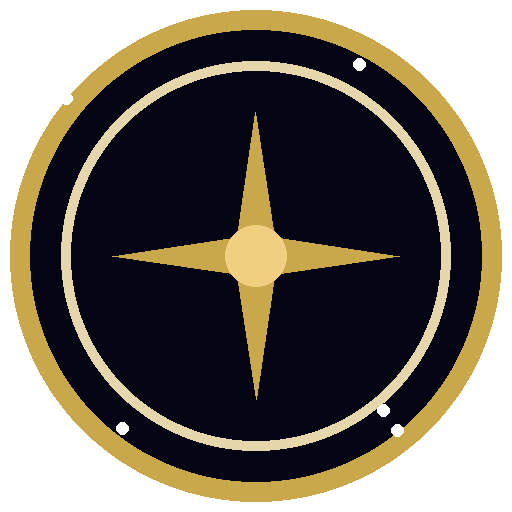
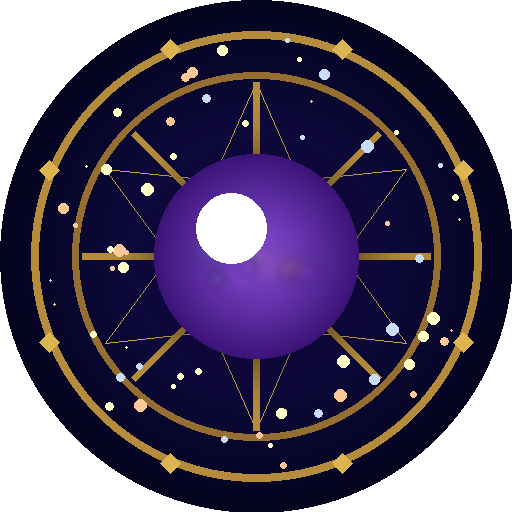
Add files via upload

diff --git a/index.html b/index.html
@@ -3,7 +3,7 @@
 <head>
 <meta charset="UTF-8">
 <meta name="viewport" content="width=device-width, initial-scale=1.0">
-<title>宿命の鏡 — 究極占術</title>
+<title>スターダストフォーチュン</title>
 <link href="https://fonts.googleapis.com/css2?family=Cormorant+Garamond:ital,wght@0,300;0,400;1,300;1,400&family=Noto+Serif+JP:wght@200;300;400&family=Noto+Serif+SC:wght@200;300&family=Noto+Serif+KR:wght@200;300&display=swap" rel="stylesheet">
 <link rel="manifest" href="/manifest.json">
 <meta name="theme-color" content="#040408">
@@ -112,6 +112,13 @@
   input:focus, select:focus, textarea:focus { border-color:rgba(201,168,76,0.5); background:rgba(201,168,76,0.04); box-shadow:0 0 20px rgba(201,168,76,0.08); }
 
   .fortune-types { display:flex; flex-wrap:wrap; gap:10px; margin-bottom:28px; }
+  .provider-btn {
+    padding:8px 18px; background:transparent;
+    border:1px solid rgba(201,168,76,0.2); border-radius:1px; color:var(--text-dim);
+    font-family:inherit; font-size:0.8rem; cursor:pointer; transition:all .3s; letter-spacing:0.08em;
+  }
+  .provider-btn:hover { border-color:var(--gold-dim); color:var(--text); }
+  .provider-btn.active { border-color:var(--gold); color:var(--gold); background:rgba(201,168,76,0.08); }
   .type-btn {
     flex:1; min-width:110px; padding:10px 12px; background:transparent;
     border:1px solid rgba(201,168,76,0.2); border-radius:1px; color:var(--text-dim);
@@ -187,8 +194,8 @@
         <line x1="70" y1="40" x2="78" y2="40" stroke="#c9a84c" stroke-width="0.5" opacity="0.5"/>
       </svg>
     </div>
-    <h1 id="appTitle">宿命の鏡</h1>
-    <p class="subtitle" id="appSubtitle">The Mirror of Fate · 究極占術</p>
+    <h1 id="appTitle">スターダストフォーチュン</h1>
+    <p class="subtitle" id="appSubtitle">Stardust Fortune · 星と運命の占い</p>
   </header>
 
   <div class="divider"><span>✦</span></div>
@@ -197,10 +204,18 @@
     <div class="corner tl"></div><div class="corner tr"></div>
     <div class="corner bl"></div><div class="corner br"></div>
 
-    <!-- API Key input -->
+    <!-- API Provider & Key -->
     <div class="apikey-wrap" id="apikeyWrap">
+      <div class="field" style="margin-bottom:16px">
+        <label id="lApiProvider" style="display:block;margin-bottom:10px">AI プロバイダー</label>
+        <div style="display:flex;gap:8px;flex-wrap:nowrap">
+          <button class="provider-btn active" data-provider="gemini" onclick="selectProvider('gemini')" style="flex:1">✦ Gemini</button>
+          <button class="provider-btn" data-provider="claude" onclick="selectProvider('claude')" style="flex:1">◈ Claude</button>
+          <button class="provider-btn" data-provider="openai" onclick="selectProvider('openai')" style="flex:1">⬡ OpenAI</button>
+        </div>
+      </div>
       <div class="field" style="margin-bottom:24px">
-        <label id="lApiKey">Gemini APIキー</label>
+        <label id="lApiKey">APIキー</label>
         <div style="display:flex;gap:8px;align-items:center">
           <input type="password" id="apiKey" placeholder="AIza..." style="flex:1">
           <button onclick="toggleApiKeyVisibility()" id="toggleBtn" style="padding:10px 14px;background:transparent;border:1px solid rgba(201,168,76,0.2);color:var(--text-dim);font-size:0.75rem;cursor:pointer;white-space:nowrap;transition:all .3s" onmouseover="this.style.borderColor='rgba(201,168,76,0.5)'" onmouseout="this.style.borderColor='rgba(201,168,76,0.2)'">表示</button>
@@ -262,14 +277,14 @@
 // ══════════════════════════════════════════
 const I18N = {
   ja: {
-    lang:'ja', appTitle:'宿命の鏡', appSubtitle:'The Mirror of Fate · 究極占術',
+    lang:'ja', appTitle:'スターダストフォーチュン', appSubtitle:'Stardust Fortune · 星と運命の占い',
     lName:'お名前', lLastName:'姓', lFirstName:'名', lBirth:'生年月日', lTime:'出生時刻（任意）', lGender:'性別',
     lQuestion:'今の悩み・聞きたいこと（任意）', lTypeSelect:'占術を選択',
     namePH:'例：山田 花子', lastNamePH:'例：山田', firstNamePH:'例：花子', questionPH:'例：仕事のこと、恋愛のこと、今後の人生について…',
     gOpt0:'選択してください', gOpt1:'女性', gOpt2:'男性', gOpt3:'その他',
     t_general:'総合鑑定', t_today:'今日の運勢', t_week:'今週の運勢', t_month:'今月の運勢', t_year:'今年の運勢',
     invokeBtn:'天命を読み解く', loadingText:'天の理を読み解いています…',
-    resetBtn:'▸ 新たな問いを立てる', footerText:'宿命の鏡 · 究極占術<br>占いは参考程度にお楽しみください',
+    resetBtn:'▸ 新たな問いを立てる', footerText:'スターダストフォーチュン<br>占いは参考程度にお楽しみください',
     errName:'お名前をご入力ください', errBirth:'生年月日をご入力ください',
     errAPI:'天の声を受信できませんでした。しばらくしてから再度お試しください。',
     errApiKey:'Gemini APIキーを入力してください',
@@ -283,7 +298,7 @@ const I18N = {
     buildUser(d){ const gl={female:'女性',male:'男性',other:'その他','':'未回答'}; const today=d.today; const s=d.seimei; const seimeiText=s?`\n姓名判断：\n　天格（姓・${s.lastStrokes}画）：${s.tenkakuKikyo}　地格（名・${s.firstStrokes}画）：${s.chikakuKikyo}\n　人格（${s.jinkaku}画）：${s.jinkakuKikyo}　外格（${s.gaikaku}画）：${s.gaikakuKikyo}　総格（${s.sokaku}画）：${s.sokakuKikyo}`:''; const instr={general:'四柱推命・九星気学・数秘術・星座占い・姓名判断を統合した総合鑑定をお願いします。この方の本質的な使命、性格、才能、今後の人生における指針を詳しく示してください。姓名判断の結果も必ず読み解いてください。',today:`本日（${today}）の運勢を鑑定してください。姓名判断の結果も踏まえ、恋愛・仕事・健康・金運の観点から、今日一日の流れと心がけるべきことをお伝えください。`,week:'今週（7日間）の運勢を鑑定してください。姓名判断の結果も踏まえ、週の前半・後半の流れ、チャンスが訪れる日、注意すべき日、恋愛・仕事・健康の運勢をお伝えください。',month:'今月の運勢を鑑定してください。姓名判断の結果も踏まえ、月全体の大きな流れ、重要な転機となる時期、恋愛・仕事・健康・金運の運勢をお伝えください。',year:'今年の運勢を鑑定してください。姓名判断の結果も踏まえ、年間を通じた大きな流れ、特に重要な時期、恋愛・仕事・健康・金運の年間運勢と、今年の指針をお伝えください。'}; return `以下の方の鑑定をお願いします。\n\n【鑑定対象】\nお名前：${d.name}${seimeiText}\n生年月日：${d.bd}（${d.year}年）\n出生時刻：${d.bt||'不明'}\n性別：${gl[d.gender]||'未回答'}\n星座：${d.zodiac}\n九星気学：${d.kyusei}\n四柱（年柱）：${d.shichu}\nライフパスナンバー：${d.lp}\n${d.q?'ご相談内容：'+d.q:''}\n\n${instr[d.type]}`; }
   },
   en: {
-    lang:'en', appTitle:'Mirror of Fate', appSubtitle:'Ancient Wisdom · Ultimate Oracle',
+    lang:'en', appTitle:'Stardust Fortune', appSubtitle:'Stars & Destiny · Ultimate Oracle',
     lName:'Your Name', lLastName:'Last Name', lFirstName:'First Name', lBirth:'Date of Birth', lTime:'Birth Time (optional)', lGender:'Gender',
     lQuestion:'Your Question (optional)', lTypeSelect:'Choose Divination',
     namePH:'e.g. Jane Smith', lastNamePH:'e.g. Smith', firstNamePH:'e.g. Jane', questionPH:'e.g. Love, career, life path…',
@@ -304,7 +319,7 @@ const I18N = {
     buildUser(d){ const gl={female:'Female',male:'Male',other:'Other','':'Unspecified'}; const today=d.today; const s=d.seimei; const seimeiText=s?`\nName Numerology (Seimei):\n  Heaven (${s.lastStrokes} strokes): ${s.tenkakuKikyo}  Earth (${s.firstStrokes} strokes): ${s.chikakuKikyo}\n  Human (${s.jinkaku}): ${s.jinkakuKikyo}  Outer (${s.gaikaku}): ${s.gaikakuKikyo}  Total (${s.sokaku}): ${s.sokakuKikyo}`:''; const instr={general:"Provide a holistic reading integrating all divination traditions including name numerology — reveal this person's core mission, character, talents, and life guidance.",today:`Read the fortune for today (${today}). Taking name numerology into account, cover love, work, health, and finances.`,week:"Read the fortune for this week. Taking name numerology into account, describe the weekly flow, lucky days, and guidance for love, work, and health.",month:"Read the fortune for this month. Taking name numerology into account, describe the overall flow, key turning points, and guidance for love, work, health, and finances.",year:"Read the fortune for this year. Taking name numerology into account, describe the annual flow, most important periods, and guidance for love, work, health, and finances."}; return `Please provide a reading for:\n\nName: ${d.name}${seimeiText}\nBirth Date: ${d.bd} (born ${d.year})\nBirth Time: ${d.bt||'Unknown'}\nGender: ${gl[d.gender]||'Unspecified'}\nZodiac: ${d.zodiac}\nKyusei Star: ${d.kyusei}\nYear Pillar: ${d.shichu}\nLife Path: ${d.lp}\n${d.q?'Question: '+d.q:''}\n\n${instr[d.type]}`; }
   },
   zh: {
-    lang:'zh', appTitle:'命运之镜', appSubtitle:'天命占術 · 东西方智慧的结晶',
+    lang:'zh', appTitle:'星尘命运', appSubtitle:'Stardust Fortune · 星与命运的占卜',
     lName:'姓名', lLastName:'姓', lFirstName:'名', lBirth:'出生日期', lTime:'出生时间（可选）', lGender:'性别',
     lQuestion:'您的问题（可选）', lTypeSelect:'选择占术',
     namePH:'例：张三', lastNamePH:'例：张', firstNamePH:'例：三', questionPH:'例：关于感情、事业、未来方向…',
@@ -325,7 +340,7 @@ const I18N = {
     buildUser(d){ const gl={female:'女性',male:'男性',other:'其他','':'未填写'}; const today=d.today; const s=d.seimei; const seimeiText=s?`\n姓名判断：\n　天格（姓・${s.lastStrokes}画）：${s.tenkakuKikyo}　地格（名・${s.firstStrokes}画）：${s.chikakuKikyo}\n　人格（${s.jinkaku}画）：${s.jinkakuKikyo}　外格（${s.gaikaku}画）：${s.gaikakuKikyo}　总格（${s.sokaku}画）：${s.sokakuKikyo}`:''; const instr={general:'综合四柱推命、九星气学、数秘术、星座占卜与姓名判断，揭示此人的核心使命、性格、才能与人生指引。请务必解读姓名判断结果。',today:`鉴定今日（${today}）的运势，结合姓名判断，涵盖感情、事业、健康、财运，说明今日的能量流向与注意事项。`,week:'鉴定本周运势，结合姓名判断，说明上半周与下半周的走势、吉日与需注意的日子，以及感情、事业、健康的运势。',month:'鉴定本月运势，结合姓名判断，说明整体走势、重要转折时机，以及感情、事业、健康、财运的月度运势。',year:'鉴定今年运势，结合姓名判断，说明全年大势、最重要的时期，以及感情、事业、健康、财运的年度运势与指引。'}; return `请为以下人士进行鉴定：\n\n姓名：${d.name}${seimeiText}\n出生日期：${d.bd}（${d.year}年）\n出生时间：${d.bt||'不详'}\n性别：${gl[d.gender]||'未填写'}\n星座：${d.zodiac}\n九星气学：${d.kyusei}\n年柱：${d.shichu}\n生命路径数：${d.lp}\n${d.q?'问题：'+d.q:''}\n\n${instr[d.type]}`; }
   },
   ko: {
-    lang:'ko', appTitle:'운명의 거울', appSubtitle:'천명 점술 · 동서양의 지혜',
+    lang:'ko', appTitle:'스타더스트 포춘', appSubtitle:'Stardust Fortune · 별과 운명의 점술',
     lName:'성명', lLastName:'성', lFirstName:'이름', lBirth:'생년월일', lTime:'출생 시각 (선택)', lGender:'성별',
     lQuestion:'질문 사항 (선택)', lTypeSelect:'점술 선택',
     namePH:'예: 김민지', lastNamePH:'예: 김', firstNamePH:'예: 민지', questionPH:'예: 사랑, 직업, 인생 방향에 대해…',
@@ -346,7 +361,7 @@ const I18N = {
     buildUser(d){ const gl={female:'여성',male:'남성',other:'기타','':'미입력'}; const today=d.today; const s=d.seimei; const seimeiText=s?`\n성명판단：\n　천격（성・${s.lastStrokes}획）：${s.tenkakuKikyo}　지격（이름・${s.firstStrokes}획）：${s.chikakuKikyo}\n　인격（${s.jinkaku}획）：${s.jinkakuKikyo}　외격（${s.gaikaku}획）：${s.gaikakuKikyo}　총격（${s.sokaku}획）：${s.sokakuKikyo}`:''; const instr={general:'사주추명, 구성기학, 수비술, 별자리 점, 성명판단을 통합하여 이 분의 핵심 사명, 성격, 재능과 인생 지침을 알려주세요. 성명판단 결과도 반드시 풀어주세요.',today:`오늘(${today})의 운세를 감정해 주세요. 성명판단 결과도 踏まえ, 사랑, 직업, 건강, 재물 운을 중심으로 오늘의 흐름과 주의사항을 알려주세요.`,week:'이번 주 운세를 감정해 주세요. 성명판단 결과도 踏まえ, 주 전반부와 후반부의 흐름, 길일과 주의해야 할 날, 사랑·직업·건강 운세를 알려주세요.',month:'이번 달 운세를 감정해 주세요. 성명판단 결과도 踏まえ, 전체적인 흐름, 중요한 전환점, 사랑·직업·건강·재물 운의 월별 운세를 알려주세요.',year:'올해 운세를 감정해 주세요. 성명판단 결과도 踏まえ, 연간 흐름, 가장 중요한 시기, 사랑·직업·건강·재물 운의 연간 운세와 지침을 알려주세요.'}; return `다음 분의 감정을 해주세요.\n\n이름: ${d.name}${seimeiText}\n생년월일: ${d.bd} (${d.year}년생)\n출생 시각: ${d.bt||'불명'}\n성별: ${gl[d.gender]||'미입력'}\n별자리: ${d.zodiac}\n구성기학: ${d.kyusei}\n사주(년주): ${d.shichu}\n라이프패스 넘버: ${d.lp}\n${d.q?'질문: '+d.q:''}\n\n${instr[d.type]}`; }
   },
   fr: {
-    lang:'fr', appTitle:'Miroir du Destin', appSubtitle:'Sagesse Ancestrale · Oracle Suprême',
+    lang:'fr', appTitle:'Stardust Fortune', appSubtitle:'Poussi\u00e8re d\u2019\u00c9toiles · Oracle Supr\u00eame',
     lName:'Votre Nom', lLastName:'Nom de famille', lFirstName:'Prénom', lBirth:'Date de Naissance', lTime:'Heure de Naissance (optionnel)', lGender:'Genre',
     lQuestion:'Votre Question (optionnel)', lTypeSelect:'Choisir la Divination',
     namePH:'ex : Marie Dupont', lastNamePH:'ex : Dupont', firstNamePH:'ex : Marie', questionPH:"ex : À propos de l'amour, carrière, avenir…",
@@ -417,6 +432,96 @@ function setLang(lang) {
   document.getElementById('apikeyNote').textContent = t.apikeyNote;
   document.getElementById('toggleBtn').textContent = t.toggleShow;
   document.title = t.appTitle;
+  updateProviderUI();
+}
+
+// ══════════════════════════════════════════
+// API Provider
+// ══════════════════════════════════════════
+let currentProvider = 'gemini';
+
+const PROVIDER_INFO = {
+  gemini: {
+    placeholder: 'AIza...',
+    notes: {
+      ja: 'Google AI Studio（aistudio.google.com）で無料取得。Gemini 2.0 Flash使用。1日1,500リクエスト無料。',
+      en: 'Get a free key at Google AI Studio (aistudio.google.com). Uses Gemini 2.0 Flash. 1,500 free requests/day.',
+      zh: '在 Google AI Studio（aistudio.google.com）免费获取。使用 Gemini 2.0 Flash。每日免费1,500次。',
+      ko: 'Google AI Studio(aistudio.google.com)에서 무료 발급. Gemini 2.0 Flash 사용. 하루 1,500회 무료.',
+      fr: 'Obtenez une clé gratuite sur Google AI Studio (aistudio.google.com). Utilise Gemini 2.0 Flash. 1 500 requêtes gratuites/jour.',
+    },
+    labels: { ja:'Gemini APIキー', en:'Gemini API Key', zh:'Gemini API 密钥', ko:'Gemini API 키', fr:'Clé API Gemini' },
+  },
+  claude: {
+    placeholder: 'sk-ant-...',
+    notes: {
+      ja: 'Anthropic Console（console.anthropic.com）で取得。Claude Haiku使用。新規登録で無料クレジットあり。',
+      en: 'Get your key at Anthropic Console (console.anthropic.com). Uses Claude Haiku. Free credits for new users.',
+      zh: '在 Anthropic Console（console.anthropic.com）获取。使用 Claude Haiku。新用户有免费额度。',
+      ko: 'Anthropic Console(console.anthropic.com)에서 발급. Claude Haiku 사용. 신규 가입 시 무료 크레딧 제공.',
+      fr: 'Obtenez votre clé sur Anthropic Console (console.anthropic.com). Utilise Claude Haiku. Crédits gratuits pour les nouveaux utilisateurs.',
+    },
+    labels: { ja:'Claude APIキー', en:'Claude API Key', zh:'Claude API 密钥', ko:'Claude API 키', fr:'Clé API Claude' },
+  },
+  openai: {
+    placeholder: 'sk-...',
+    notes: {
+      ja: 'OpenAI Platform（platform.openai.com）で取得。GPT-4o mini使用。新規登録で無料クレジットあり。',
+      en: 'Get your key at OpenAI Platform (platform.openai.com). Uses GPT-4o mini. Free credits for new users.',
+      zh: '在 OpenAI Platform（platform.openai.com）获取。使用 GPT-4o mini。新用户有免费额度。',
+      ko: 'OpenAI Platform(platform.openai.com)에서 발급. GPT-4o mini 사용. 신규 가입 시 무료 크레딧 제공.',
+      fr: 'Obtenez votre clé sur OpenAI Platform (platform.openai.com). Utilise GPT-4o mini. Crédits gratuits pour les nouveaux utilisateurs.',
+    },
+    labels: { ja:'OpenAI APIキー', en:'OpenAI API Key', zh:'OpenAI API 密钥', ko:'OpenAI API 키', fr:'Clé API OpenAI' },
+  }
+};
+
+// 各プロバイダーのキーをメモリに保持
+const savedKeys = { gemini: '', claude: '', openai: '' };
+
+function selectProvider(provider) {
+  // 現在のキーを保存
+  savedKeys[currentProvider] = document.getElementById('apiKey').value;
+  saveApiKeys();
+
+  currentProvider = provider;
+
+  // ボタンのactive更新
+  document.querySelectorAll('.provider-btn').forEach(b => {
+    b.classList.toggle('active', b.dataset.provider === provider);
+  });
+
+  // キー入力欄を切り替え
+  document.getElementById('apiKey').value = savedKeys[provider];
+  document.getElementById('apiKey').type = 'password';
+  document.getElementById('toggleBtn').textContent = I18N[currentLang].toggleShow;
+
+  updateProviderUI();
+}
+
+function updateProviderUI() {
+  const info = PROVIDER_INFO[currentProvider];
+  const lang = info.labels[currentLang] ? currentLang : 'en';
+  document.getElementById('lApiKey').textContent = info.labels[lang];
+  document.getElementById('apiKey').placeholder = info.placeholder;
+  document.getElementById('apikeyNote').textContent = info.notes[lang];
+}
+
+function saveApiKeys() {
+  savedKeys[currentProvider] = document.getElementById('apiKey').value;
+  try { localStorage.setItem('mikagami_apikeys', JSON.stringify(savedKeys)); } catch(e) {}
+}
+
+function loadApiKeys() {
+  try {
+    const raw = localStorage.getItem('mikagami_apikeys');
+    if (!raw) return;
+    const data = JSON.parse(raw);
+    if (data.gemini) savedKeys.gemini = data.gemini;
+    if (data.claude) savedKeys.claude = data.claude;
+    if (data.openai) savedKeys.openai = data.openai;
+    document.getElementById('apiKey').value = savedKeys[currentProvider];
+  } catch(e) {}
 }
 
 // ══════════════════════════════════════════
@@ -546,7 +651,7 @@ async function invokeFortune() {
   if (!lastName && !firstName) { showError(t.errName); return; }
   if (!bd) { showError(t.errBirth); return; }
 
-  try { saveFormData(); } catch(e) { console.warn('saveFormData error:', e); }
+  try { saveFormData(); saveApiKeys(); } catch(e) { console.warn('save error:', e); }
 
   let seimei = null;
   try { seimei = getSeimei(lastName, firstName); } catch(e) { console.warn('getSeimei error:', e); }
@@ -563,23 +668,38 @@ async function invokeFortune() {
   const prompt = t.system + '\n\n' + t.buildUser(pdata);
 
   try {
-    const res = await fetch(
-      `https://generativelanguage.googleapis.com/v1beta/models/gemini-2.0-flash:generateContent?key=${apiKey}`,
-      {
-        method: 'POST',
-        headers: { 'Content-Type': 'application/json' },
-        body: JSON.stringify({
-          contents: [{ parts: [{ text: prompt }] }],
-          generationConfig: { maxOutputTokens: 1200, temperature: 0.85 }
-        })
-      }
-    );
-    const data = await res.json();
-    if (!res.ok) {
-      const msg = data.error?.message || t.errAPI;
-      throw new Error(msg);
+    let text = '';
+
+    if (currentProvider === 'gemini') {
+      const res = await fetch(
+        `https://generativelanguage.googleapis.com/v1beta/models/gemini-2.0-flash:generateContent?key=${apiKey}`,
+        { method:'POST', headers:{'Content-Type':'application/json'},
+          body: JSON.stringify({ contents:[{parts:[{text:prompt}]}], generationConfig:{maxOutputTokens:1200,temperature:0.85} }) }
+      );
+      const data = await res.json();
+      if (!res.ok) throw new Error(data.error?.message || t.errAPI);
+      text = data.candidates?.[0]?.content?.parts?.[0]?.text || '';
+
+    } else if (currentProvider === 'claude') {
+      const res = await fetch('https://api.anthropic.com/v1/messages', {
+        method:'POST',
+        headers:{'Content-Type':'application/json','x-api-key':apiKey,'anthropic-version':'2023-06-01','anthropic-dangerous-direct-browser-access':'true'},
+        body: JSON.stringify({ model:'claude-haiku-4-5-20251001', max_tokens:1200, messages:[{role:'user',content:prompt}] })
+      });
+      const data = await res.json();
+      if (!res.ok) throw new Error(data.error?.message || t.errAPI);
+      text = data.content?.[0]?.text || '';
+
+    } else if (currentProvider === 'openai') {
+      const res = await fetch('https://api.openai.com/v1/chat/completions', {
+        method:'POST',
+        headers:{'Content-Type':'application/json','Authorization':'Bearer '+apiKey},
+        body: JSON.stringify({ model:'gpt-4o-mini', max_tokens:1200, temperature:0.85, messages:[{role:'user',content:prompt}] })
+      });
+      const data = await res.json();
+      if (!res.ok) throw new Error(data.error?.message || t.errAPI);
+      text = data.choices?.[0]?.message?.content || '';
     }
-    const text = data.candidates?.[0]?.content?.parts?.[0]?.text || '';
 
     document.getElementById('loadingVeil').className = 'loading-veil';
     document.getElementById('resultTypeIndicator').textContent = t.typeLabels[type];
@@ -912,6 +1032,7 @@ function loadFormData() {
 
 setLang('ja');
 loadFormData();
+loadApiKeys();
 
 // イベントリスナー（onclickより確実）
 document.addEventListener('DOMContentLoaded', function() {
